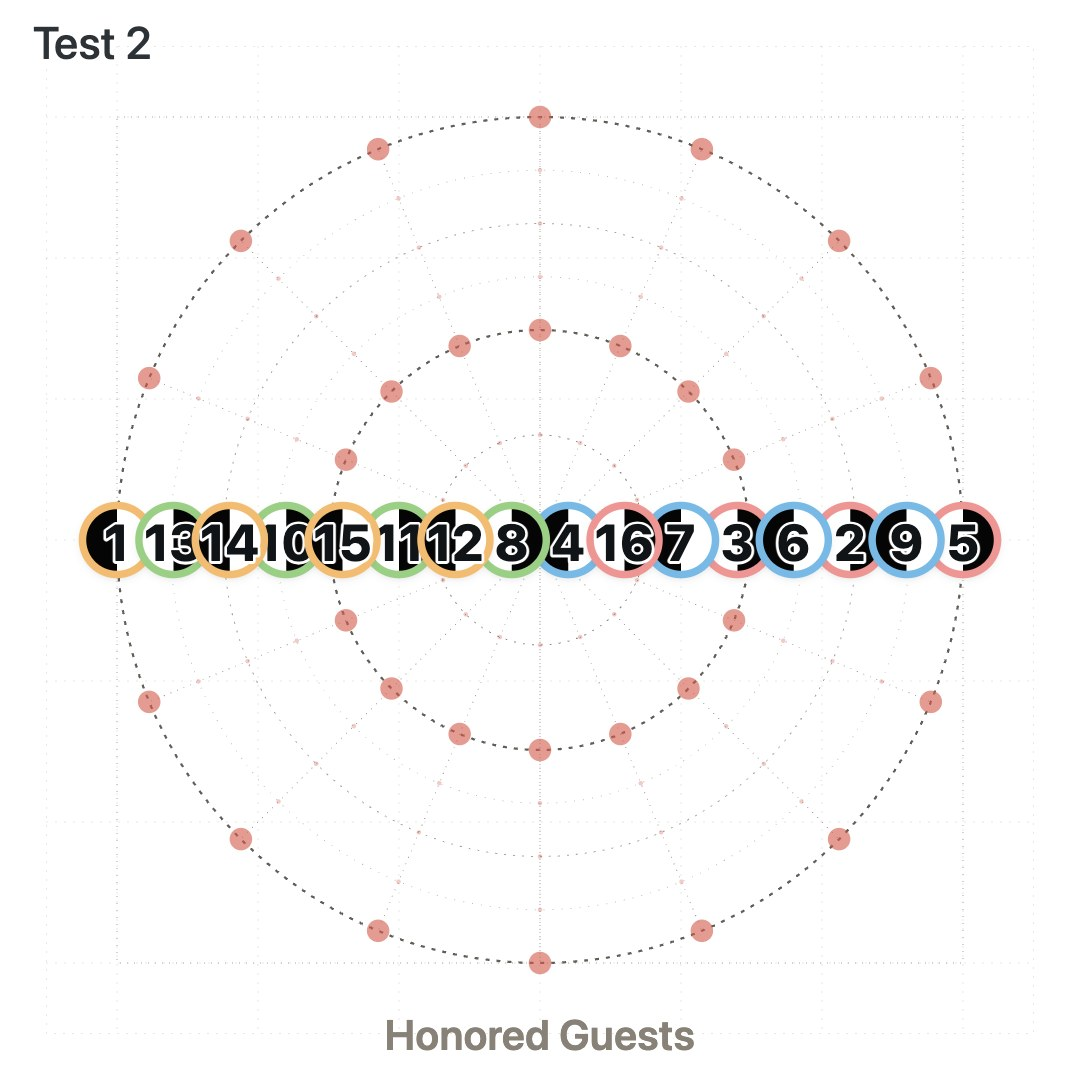
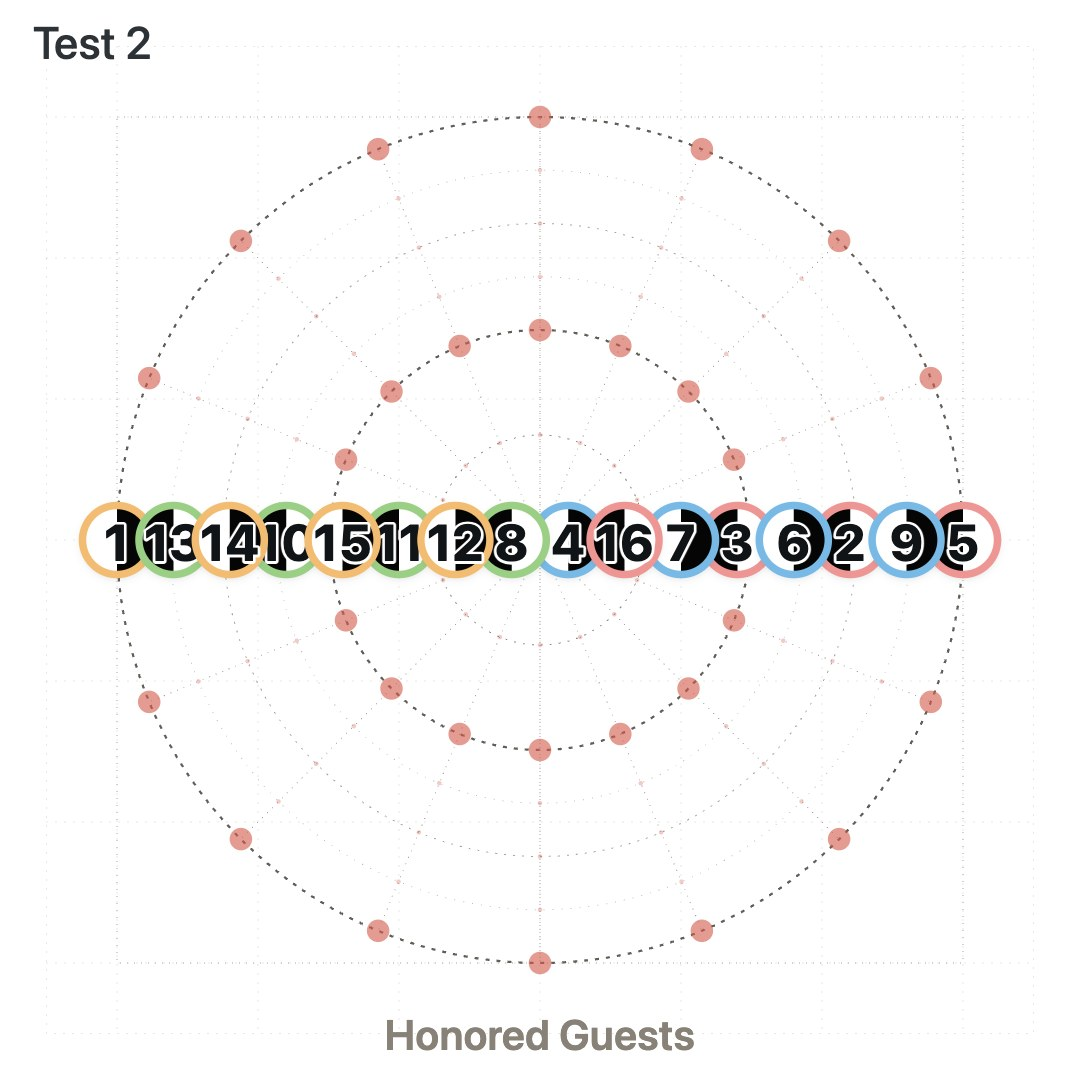
Waltz 14 Swirling Cascade: Test 2 facings flipped

Changed region(s): [[0.0611, 0.4583, 0.9167, 0.55]]

diff --git a/index.html b/index.html
@@ -5007,9 +5007,9 @@
               });
               return named(line, swirl, "Groups");
             })(),
-            // "Test 2" (Ariel, 11/23): same spots and outlines; the green and rose couples split with
-            // the follows facing right (the lead's half to the east), the amber and blue couples with
-            // the follows facing left (the lead's half to the west).
+            // "Test 2" (Ariel, 11/23, flipped the same day): same spots and outlines; the amber and blue
+            // couples split with the follows facing right (the lead's half to the east), the green and
+            // rose couples with the follows facing left (the lead's half to the west).
             (() => {
               const line = frame("Test 2", 1, 4, FIT);
               const byX = [...line.items].sort((a, b) => a.x - b.x).map((item) => item.number);
@@ -5017,7 +5017,7 @@
                 const front = byX.indexOf(item.number) % 2 === 0;
                 const left = item.x < CENTER.x;
                 item.groupColor = front ? (left ? "amber" : "blue") : (left ? "green" : "rose");
-                item.facingMode = front ? "west" : "east";
+                item.facingMode = front ? "east" : "west";
               });
               return named(line, swirl, "Test 2");
             })(),
